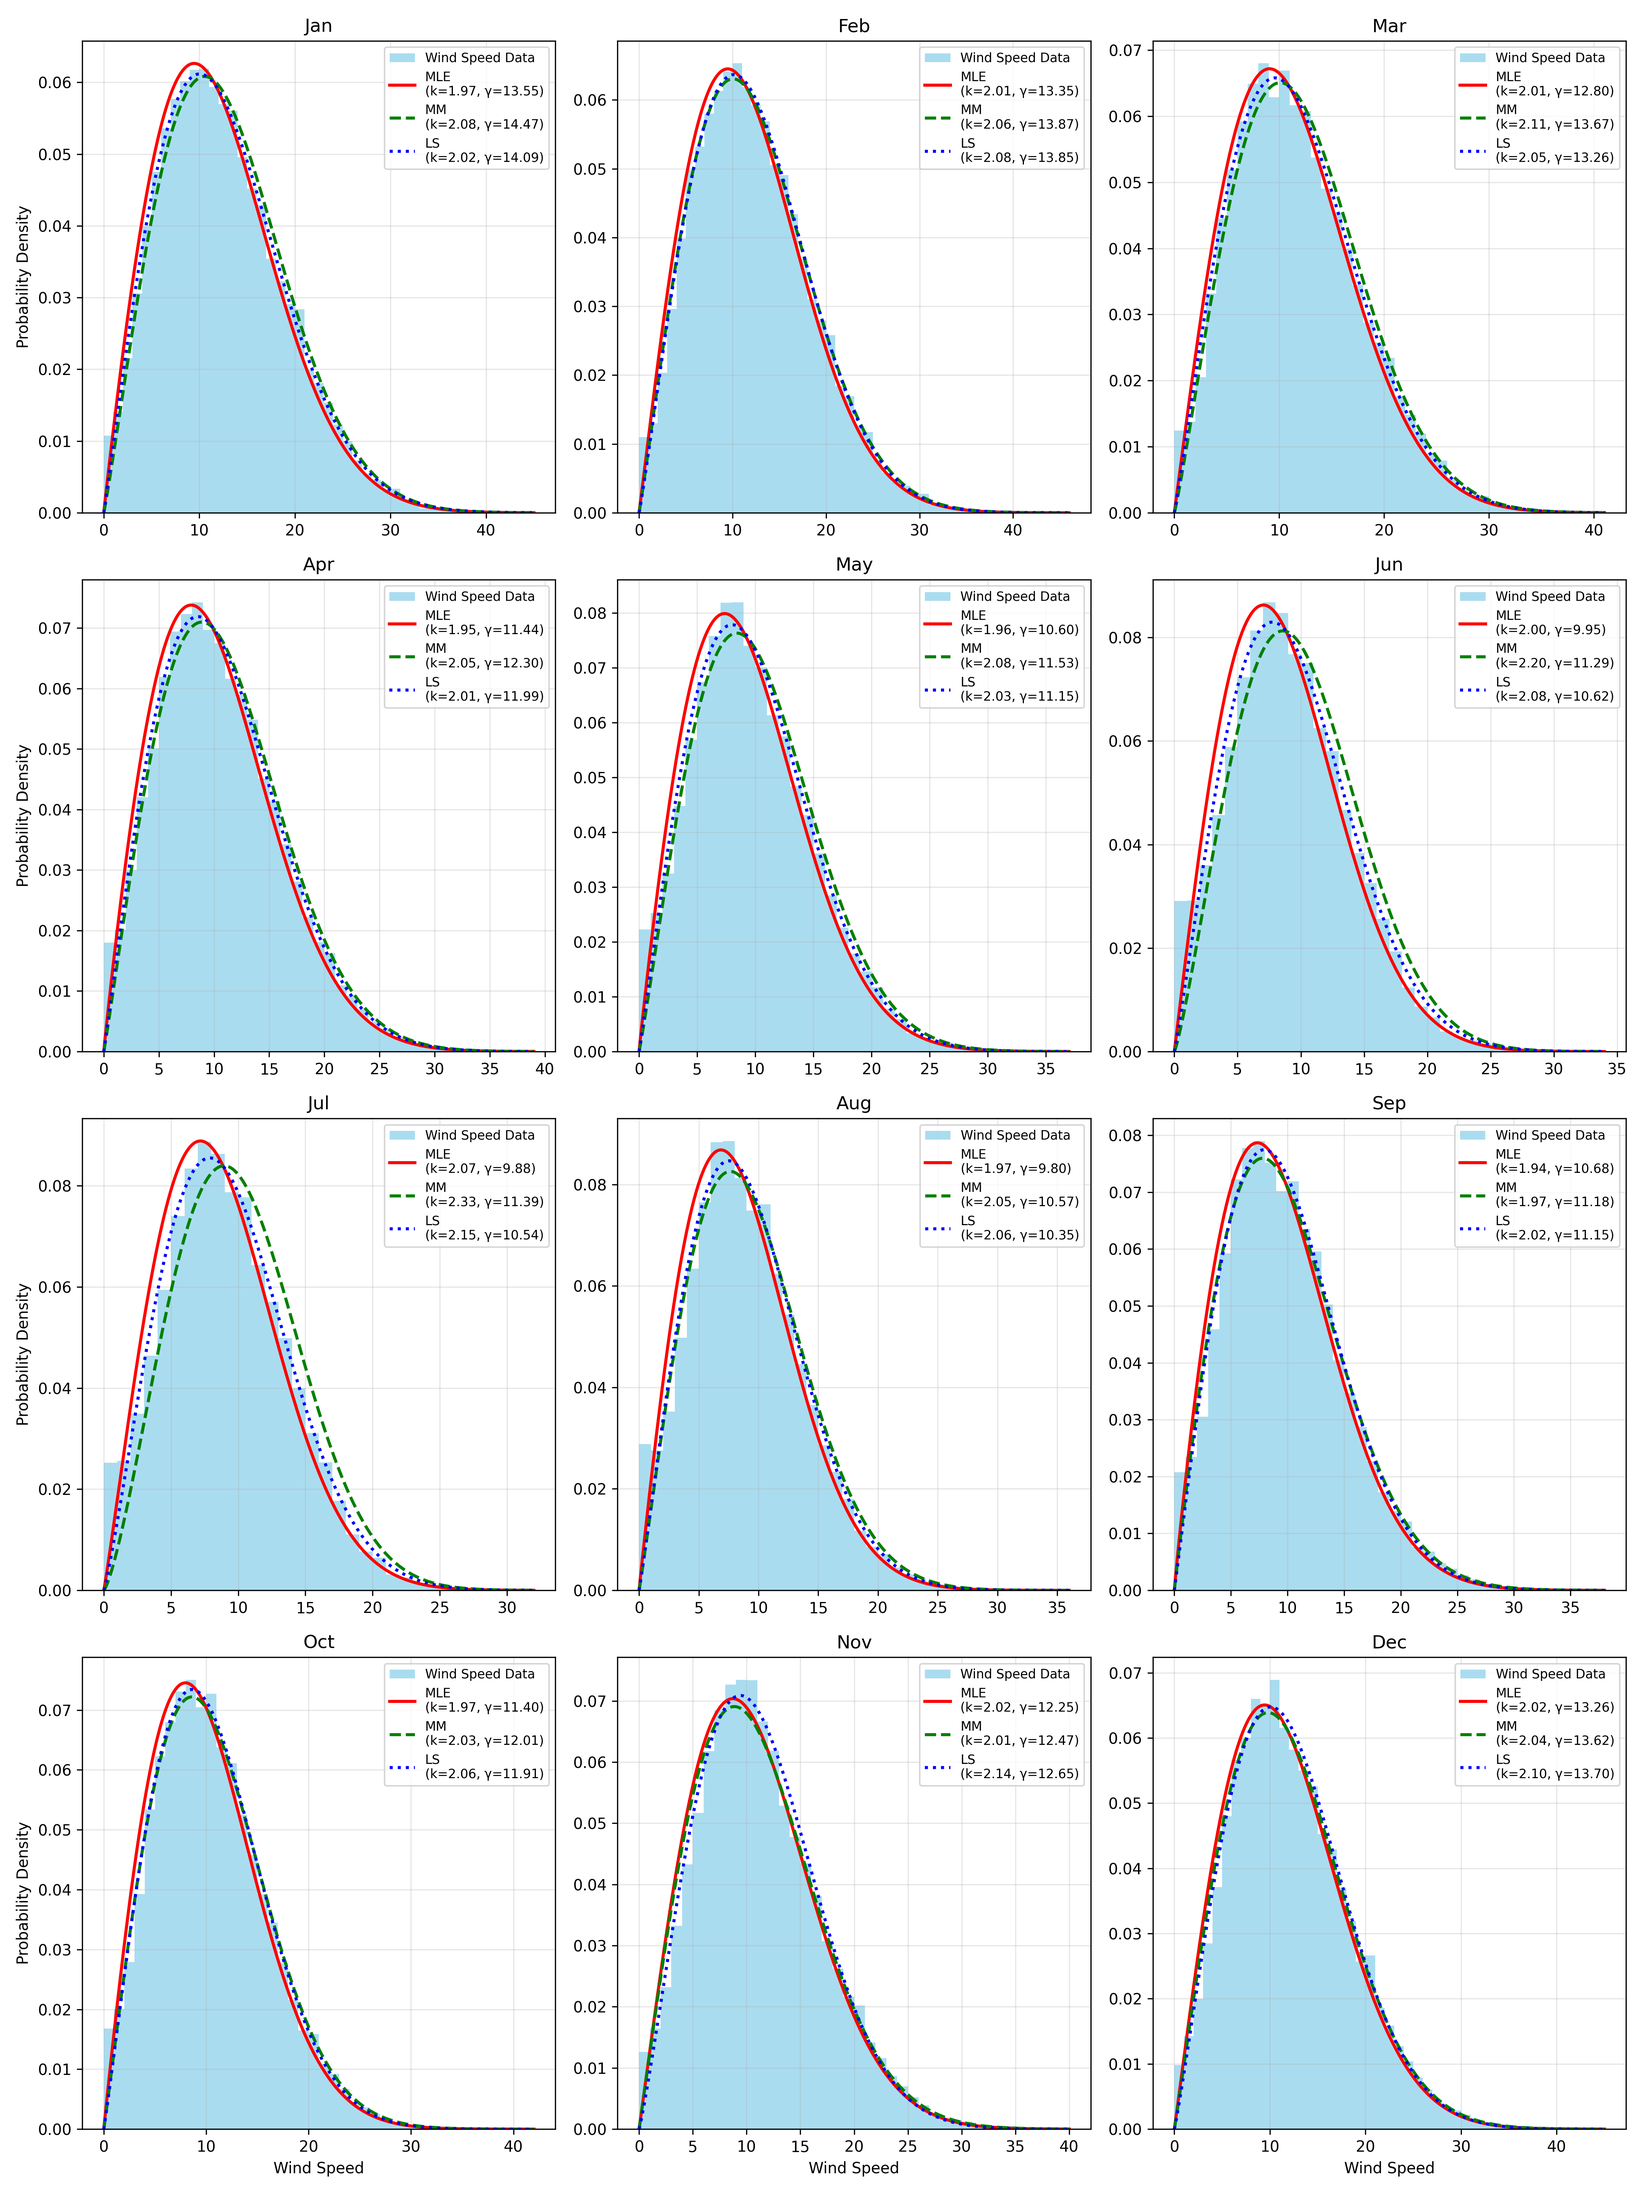
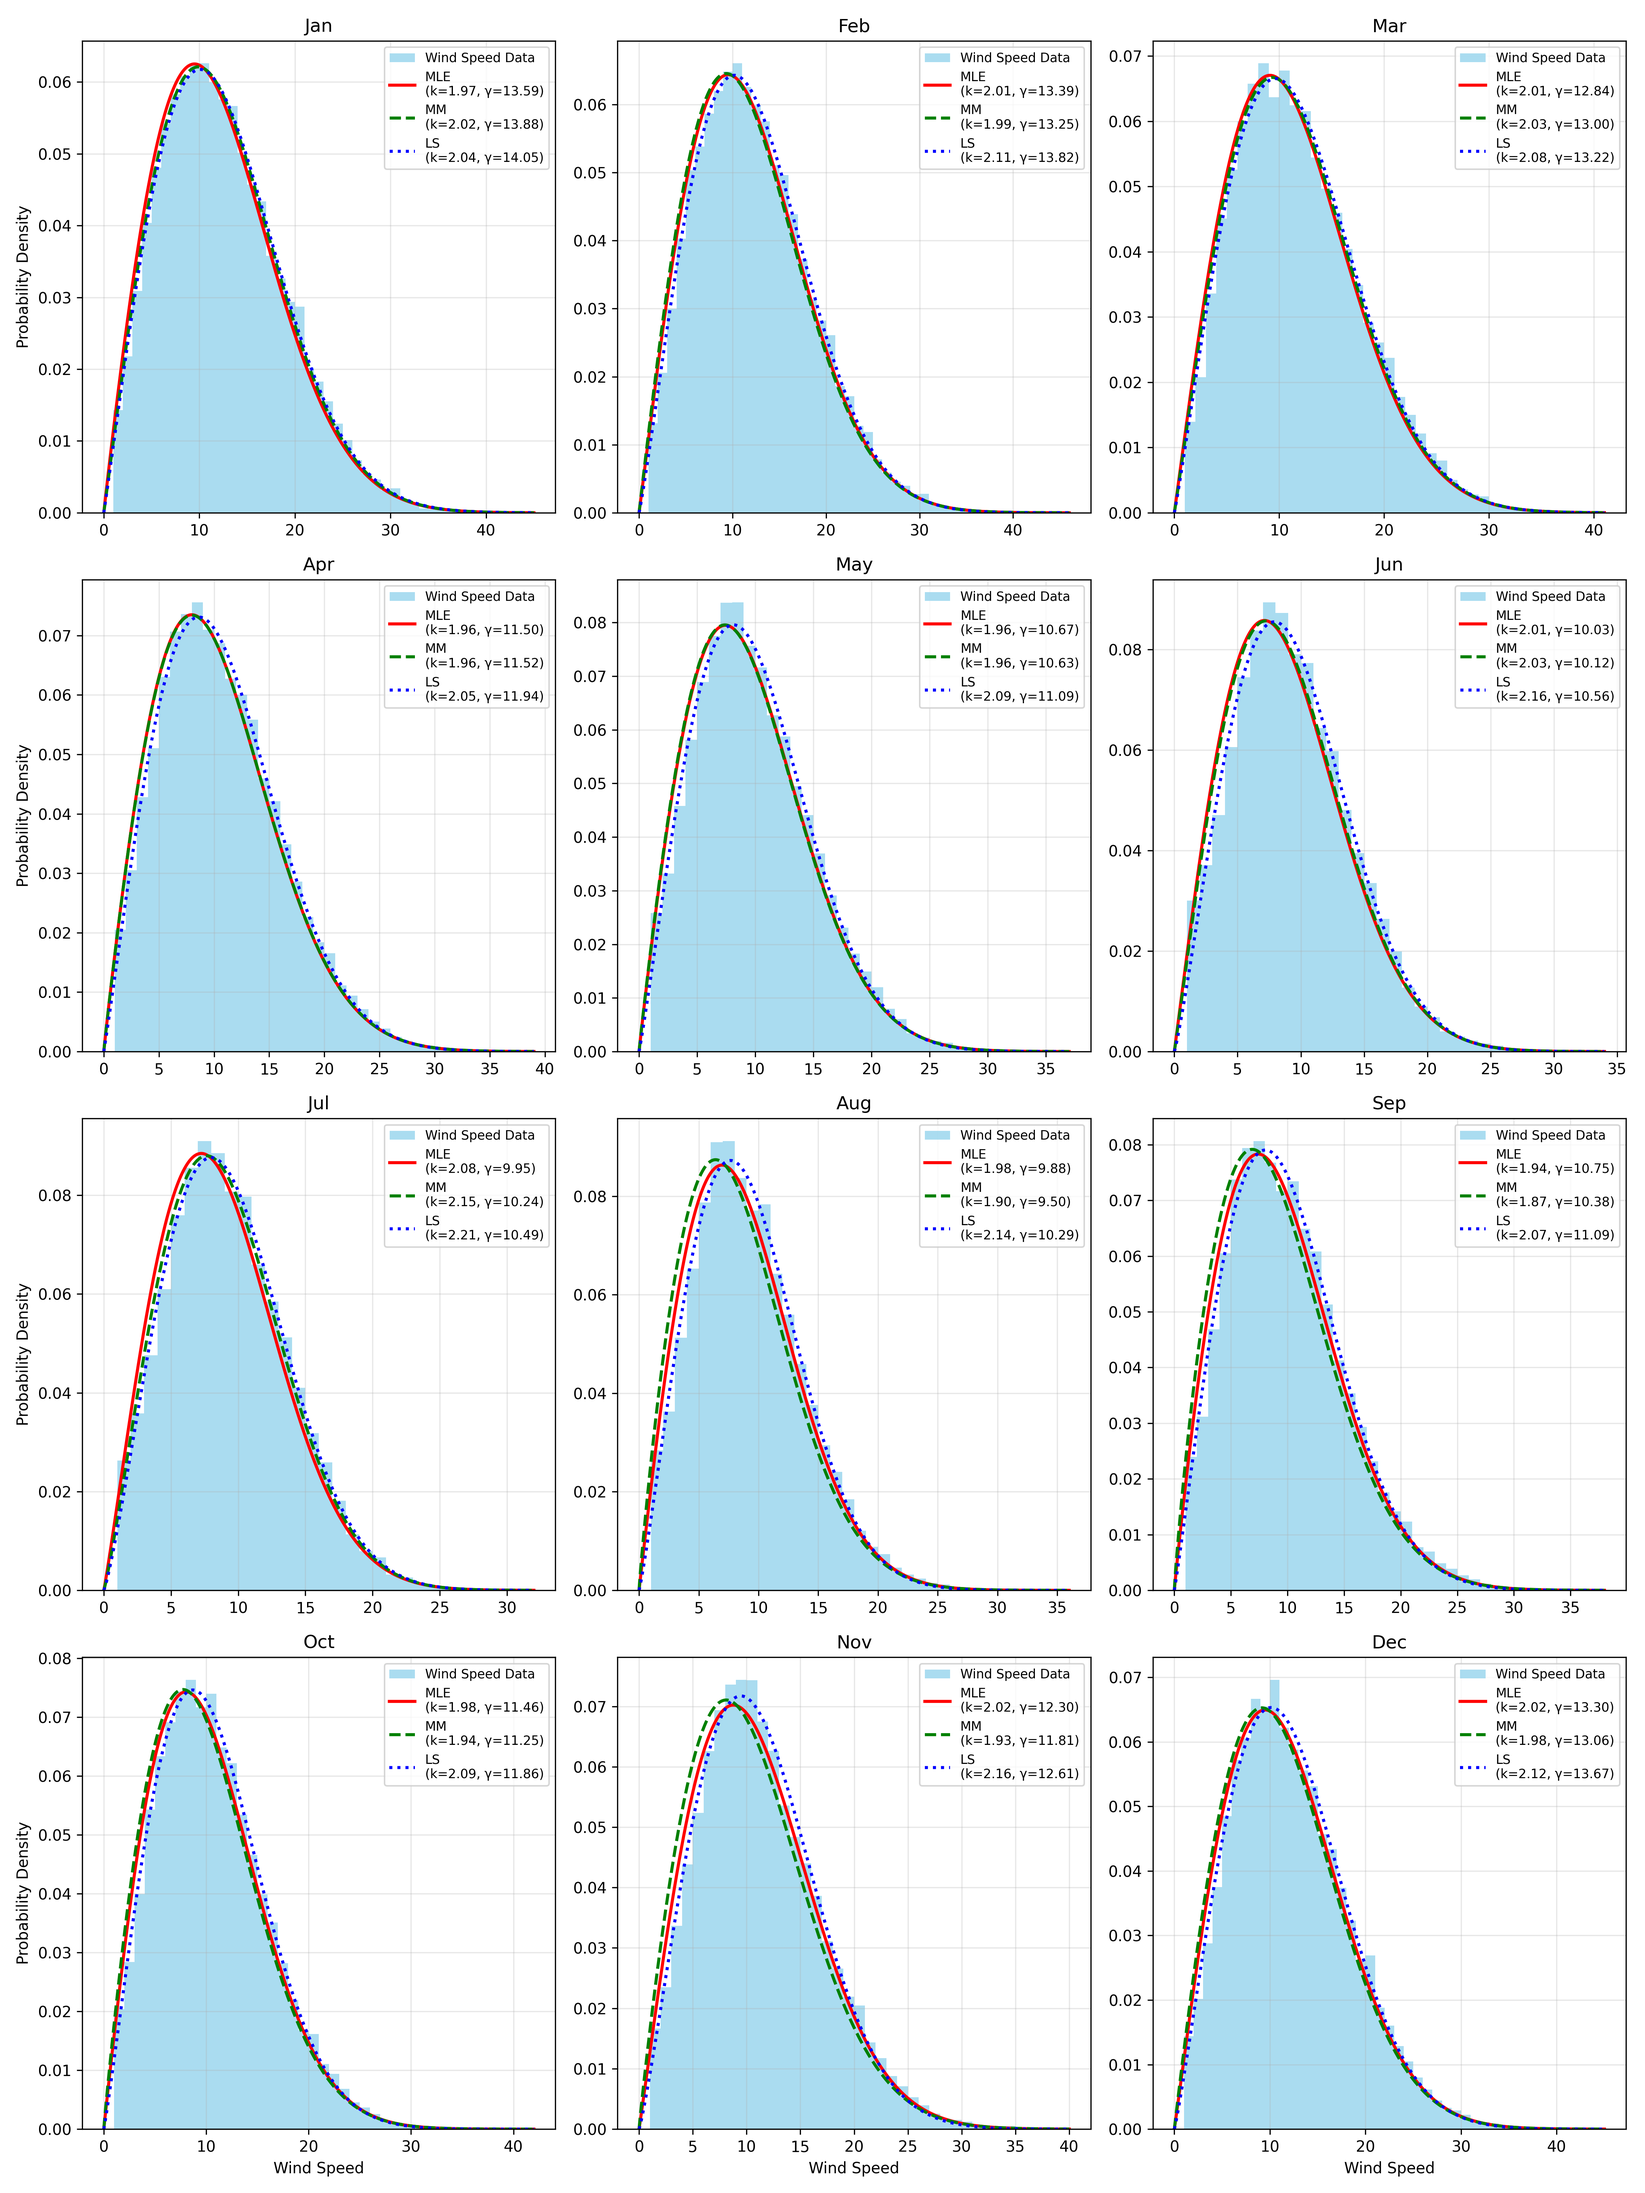
add ability to drop zero values

diff --git a/weibull_analysis.py b/weibull_analysis.py
@@ -4,6 +4,12 @@ import matplotlib.pyplot as plt
 from scipy.stats import weibull_min
 from scipy.optimize import curve_fit
 import pandas as pd
+import argparse
+
+
+parser = argparse.ArgumentParser()
+parser.add_argument("--drop_zeros", action="store_true", default=False, help="Drop zero valued data points from analysis.")
+args = parser.parse_args()
 
 
 K_INIT, GAMMA_INIT = 2, 10  # selected inital fit parameters based on intuition
@@ -88,9 +94,10 @@ def fit_weibull_to_monthly_wind_data(monthly_wind_speeds, input_file):
     return params
 
 
-def read_wind_data(file_path):
+def read_wind_data(file_path, drop_zeros=False):
     """
     Read wind speed data from a CSV file and group by month, ignoring invalid or missing data.
+    Optionally drops zero wind speed values.
     """
     try:
         # Read only relevant columns
@@ -102,9 +109,13 @@ def read_wind_data(file_path):
         # Drop rows where wind speed or date is missing
         df = df.dropna(subset=["wdsp", "date"])
 
-        # Convert dates
+        # Convert date column
         df["date"] = pd.to_datetime(df["date"], format="%d-%b-%Y %H:%M", errors="coerce")
-        df = df.dropna(subset=["date"])  # In case datetime conversion failed
+        df = df.dropna(subset=["date"])
+
+        # Optionally drop zero wind speed values
+        if drop_zeros:
+            df = df[df["wdsp"] != 0]
 
         # Add month column
         df["month"] = df["date"].dt.month
@@ -113,10 +124,11 @@ def read_wind_data(file_path):
         monthly_speeds = {month: group["wdsp"].values for month, group in df.groupby("month")}
         monthly_dates = {month: group["date"].values for month, group in df.groupby("month")}
 
-        # Print zero wind speeds count
-        for month, speeds in monthly_speeds.items():
-            zero_count = np.sum(speeds == 0)
-            print(f"Month {month}: {zero_count} zero wind speed measurements")
+        # Print zero wind speeds count (based on original data, not filtered one)
+        if not drop_zeros:
+            for month, speeds in monthly_speeds.items():
+                zero_count = np.sum(speeds == 0)
+                print(f"Month {month}: {zero_count} zero wind speed measurements")
 
         return monthly_speeds, monthly_dates
 
@@ -148,14 +160,13 @@ if __name__ == "__main__":
     month_names = ["January", "February", "March", "April", "May", "June", "July", "August", "September", "October", "November", "December"]
 
     for input_file, input_file_name in input_files:
-        monthly_wind_speeds, monthly_dates = read_wind_data(f"./data/{input_file}.csv")
+        monthly_wind_speeds, monthly_dates = read_wind_data(f"./data/{input_file}.csv", args.drop_zeros)
         if monthly_wind_speeds is None:
             print(f"Failed to read wind speed data for {input_file_name} from ./data/{input_file}.csv")
             continue
 
         monthly_params = fit_weibull_to_monthly_wind_data(monthly_wind_speeds, input_file_name)
 
-        # Append results for this input file
         with open(file_to_save_to, "a", newline="") as csvfile:
             writer = csv.writer(csvfile)
             for month, methods in monthly_params.items():
